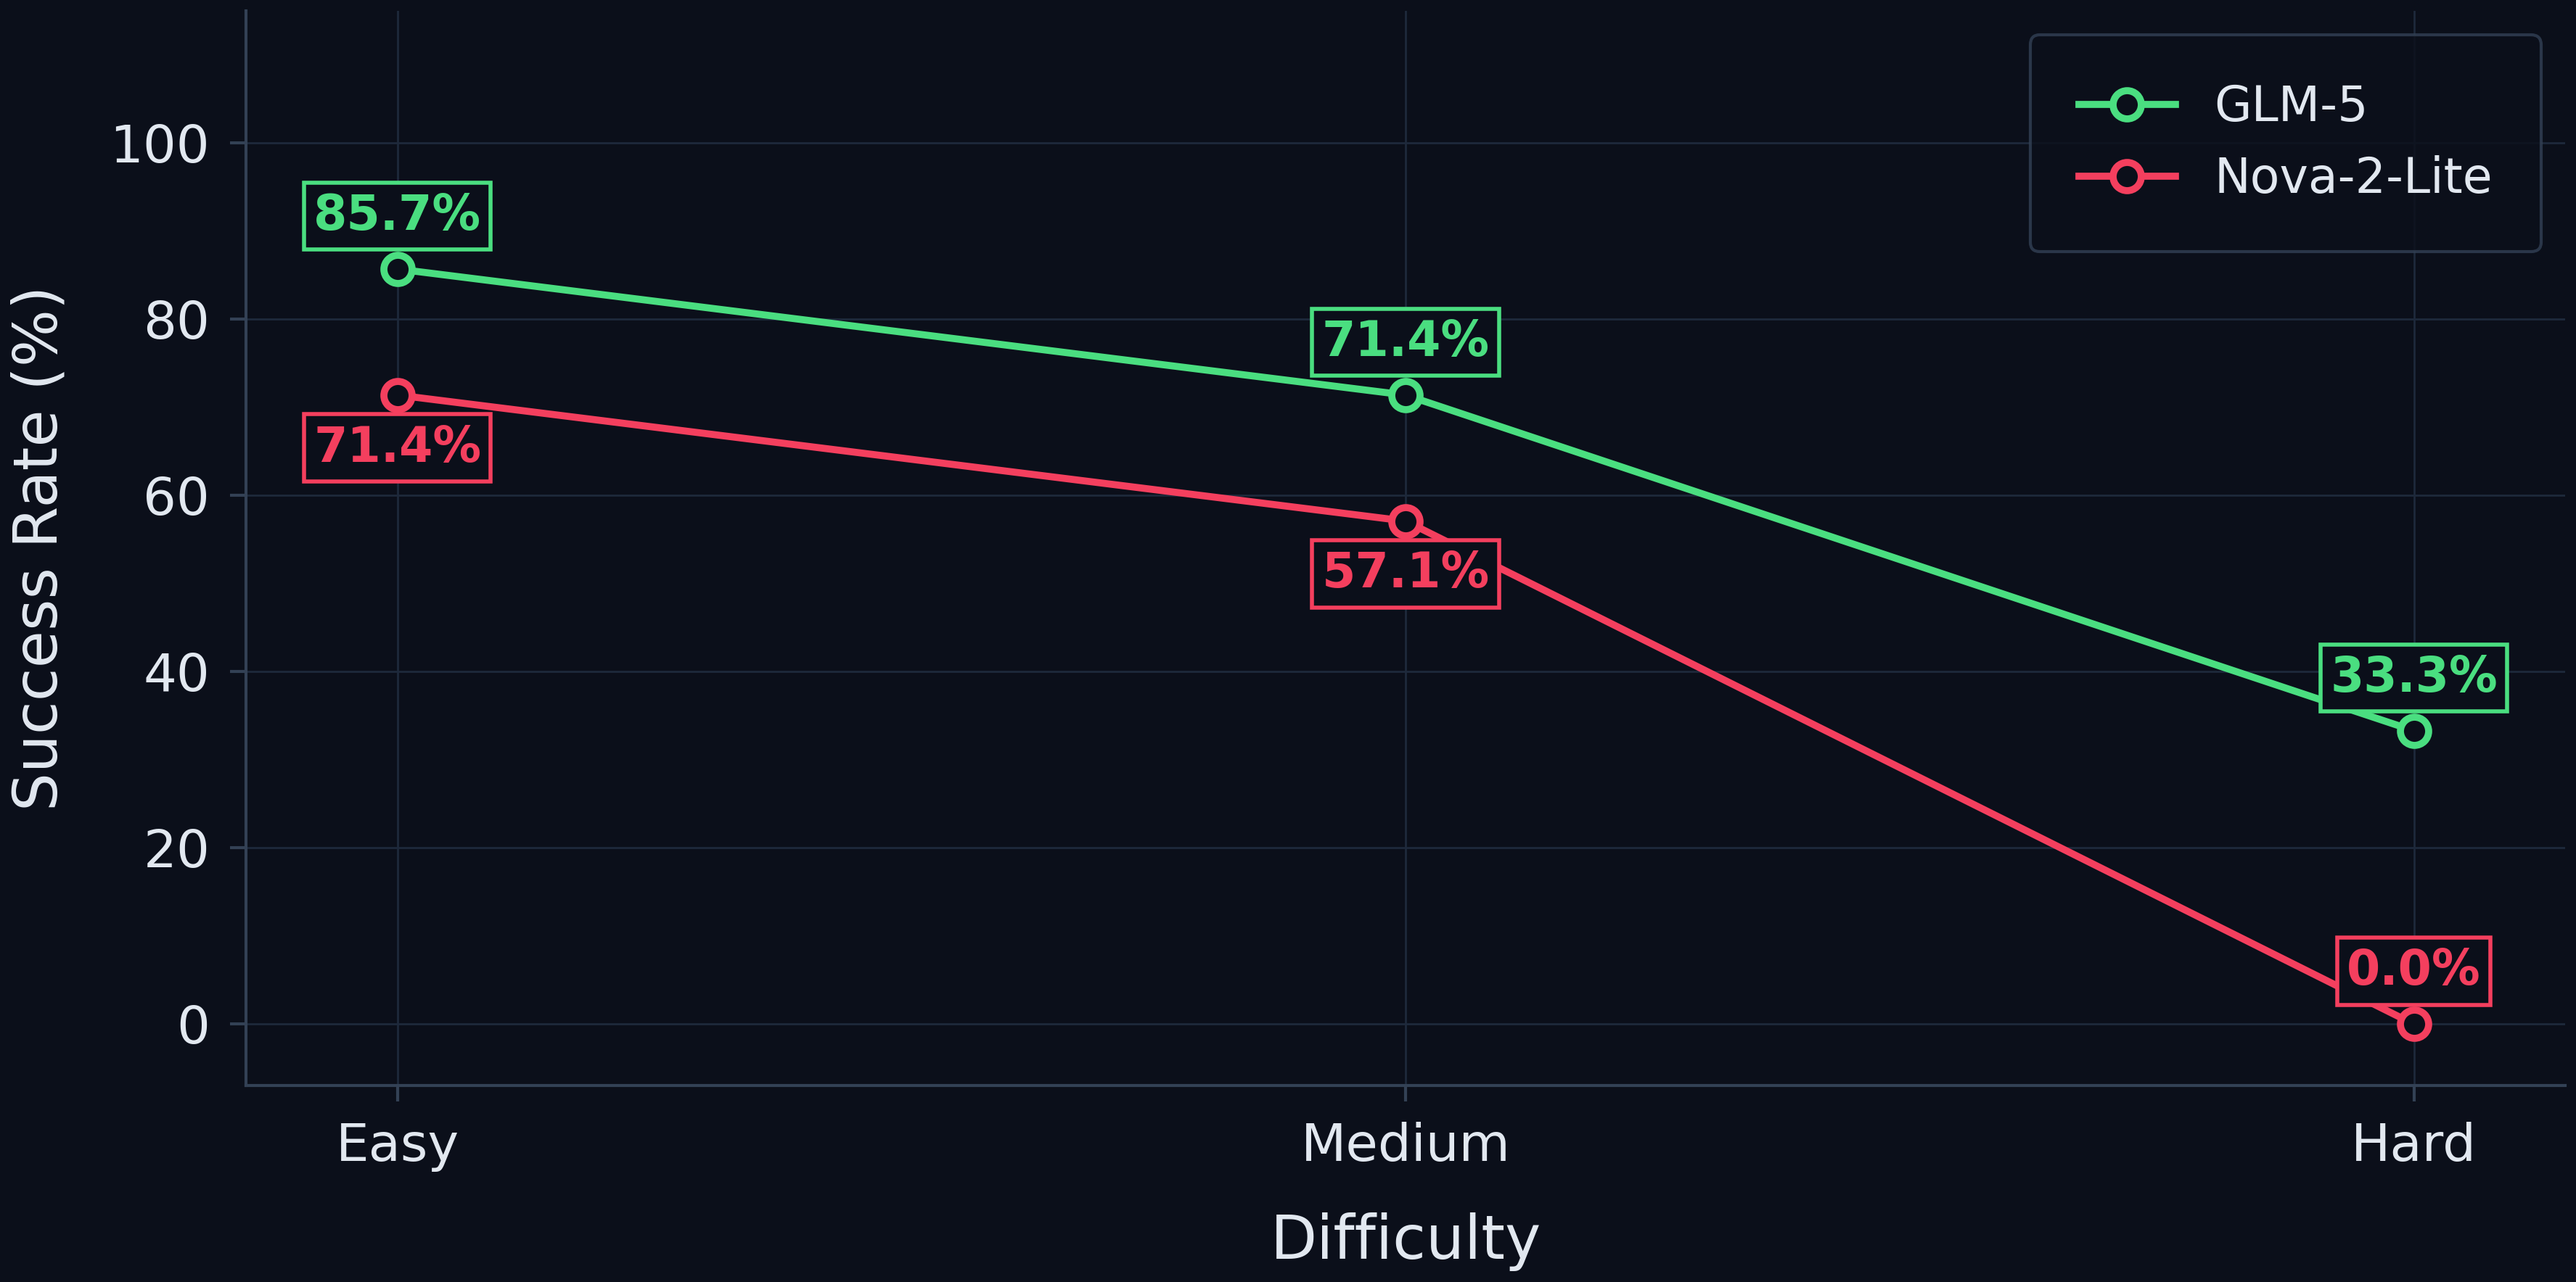
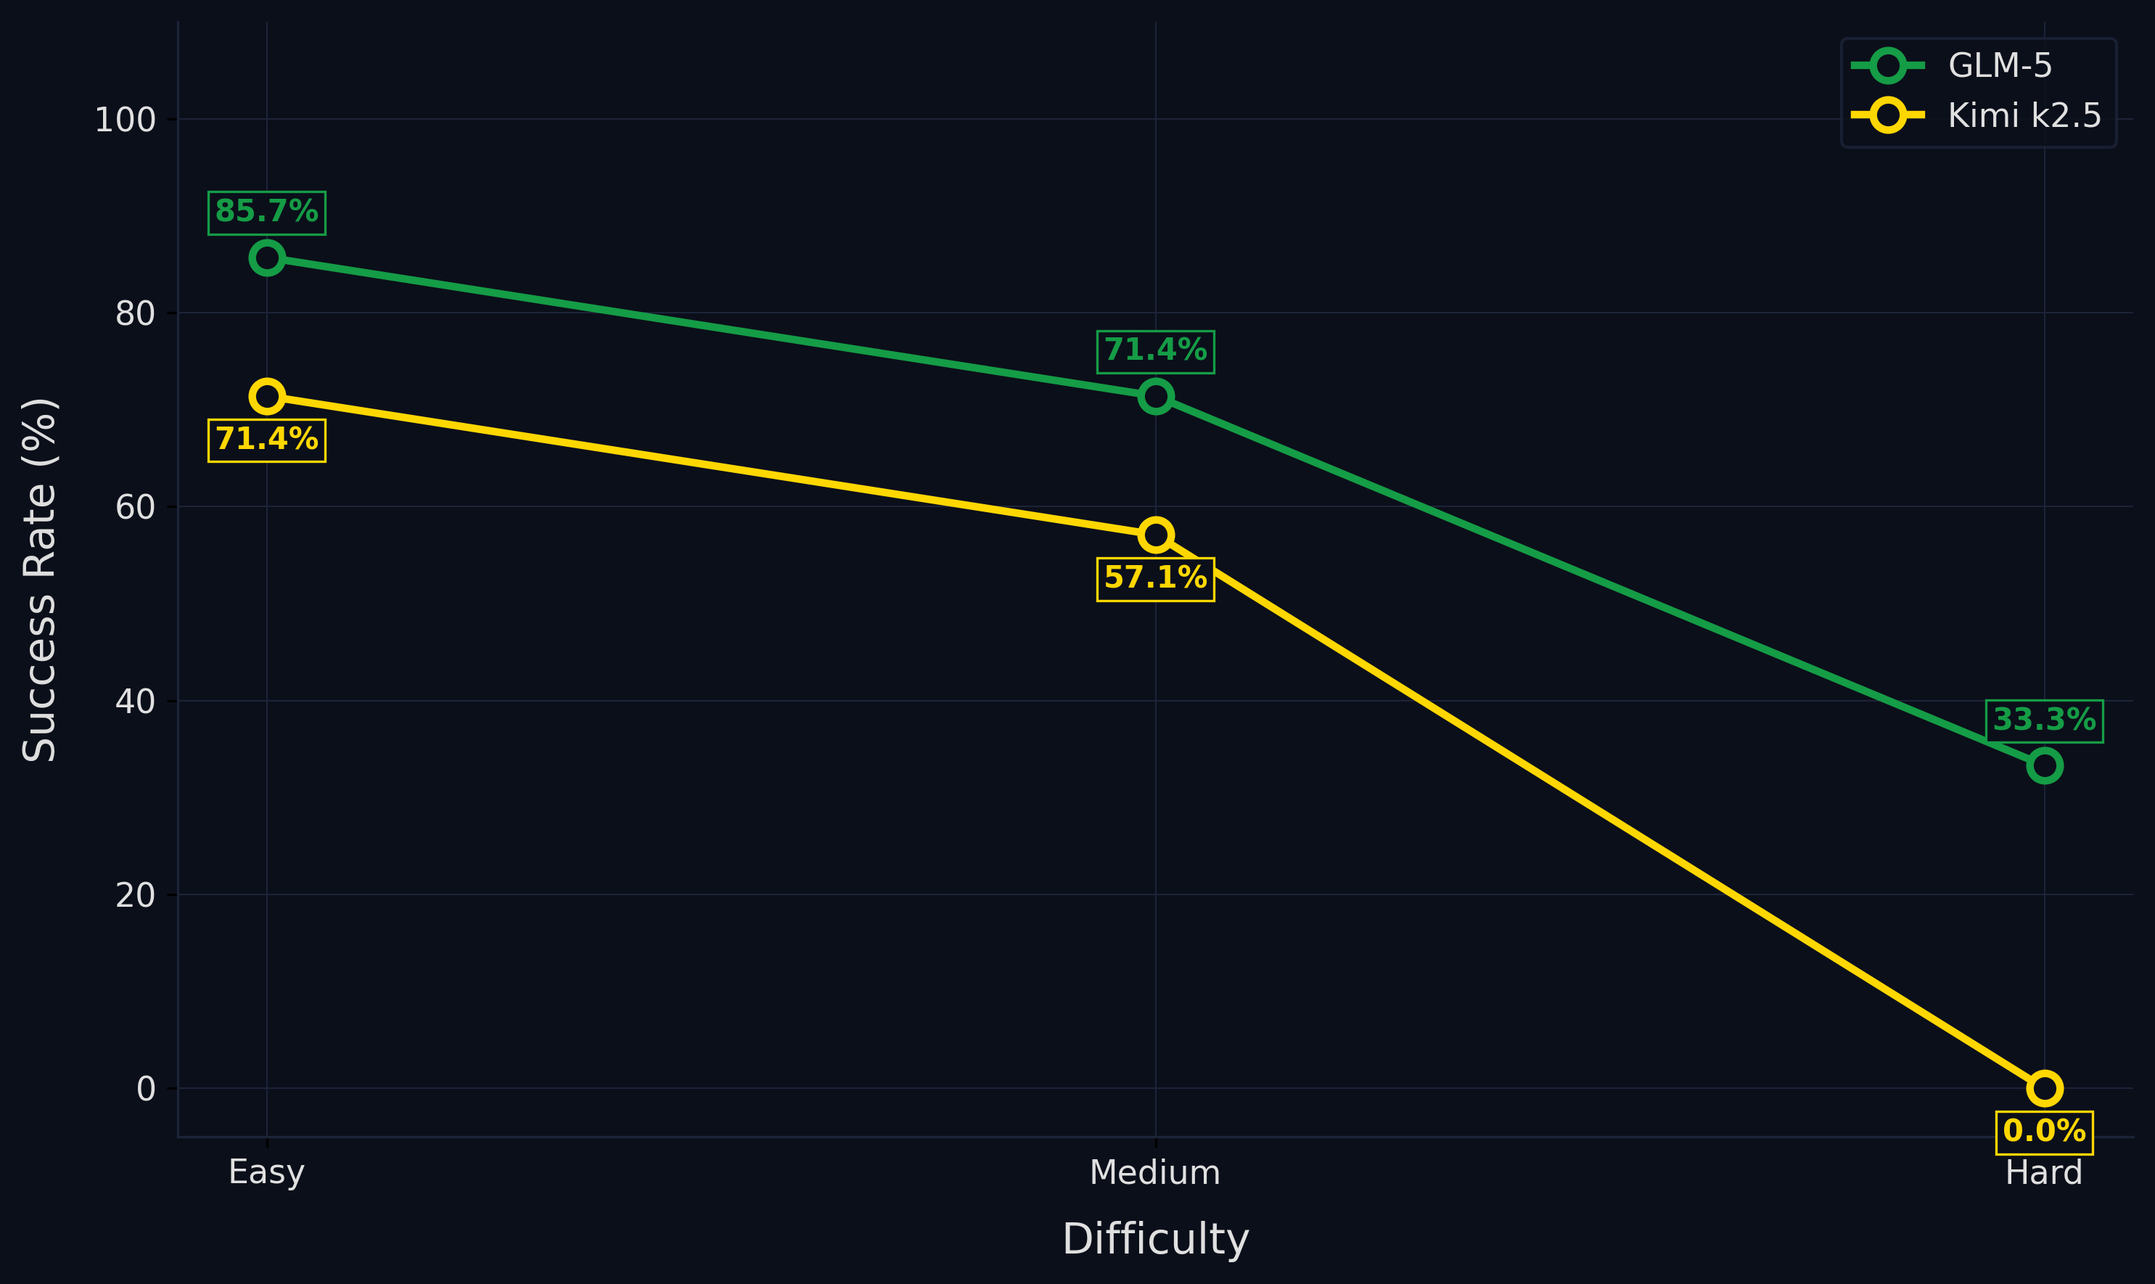
valkyrie, kaiju, mars daswhboard updated code.

diff --git a/custom_addons/huskarl_dashboard/static/src/portal/js/huskarl_portal.js b/custom_addons/huskarl_dashboard/static/src/portal/js/huskarl_portal.js
@@ -195,12 +195,12 @@
         case 'glm5_time':
           va = a.models['GLM-5']?.time_seconds || 0;
           vb = b.models['GLM-5']?.time_seconds || 0; break;
-        case 'nova_result':
-          va = a.models['Nova 2 Lite']?.passed ? 1 : 0;
-          vb = b.models['Nova 2 Lite']?.passed ? 1 : 0; break;
-        case 'nova_time':
-          va = a.models['Nova 2 Lite']?.time_seconds || 0;
-          vb = b.models['Nova 2 Lite']?.time_seconds || 0; break;
+        case 'kimi_result':
+          va = a.models['Kimi K2.5']?.passed ? 1 : 0;
+          vb = b.models['Kimi K2.5']?.passed ? 1 : 0; break;
+        case 'kimi_time':
+          va = a.models['Kimi K2.5']?.time_seconds || 0;
+          vb = b.models['Kimi K2.5']?.time_seconds || 0; break;
         default: va = a.serial; vb = b.serial;
       }
       if (va < vb) return sortDir === 'asc' ? -1 : 1;
@@ -215,7 +215,7 @@
   function renderDetailRow(inst) {
     const item = (k, v) => `<div class="detail-row-item"><span class="detail-key">${esc(k)}</span><span class="detail-val">${v}</span></div>`;
     const glm = inst.models['GLM-5'] || {};
-    const nova = inst.models['Nova 2 Lite'] || {};
+    const kimi = inst.models['Kimi K2.5'] || {};
 
     return `<tr class="detail-row" data-detail-for="${esc(inst.instance_id)}"><td colspan="9"><div class="detail-content"><div class="detail-grid">`
       + `<div class="detail-block"><div class="detail-block-title">Instance</div>`
@@ -230,9 +230,9 @@
         + item('Result', `<b style="color:${glm.passed ? 'var(--pass)' : 'var(--fail)'}">${glm.passed ? 'PASS' : 'FAIL'}</b>`)
         + item('Time', fmtTime(glm.time_seconds))
       + `</div>`
-      + `<div class="detail-block"><div class="detail-block-title">Nova-2-Lite</div>`
-        + item('Result', `<b style="color:${nova.passed ? 'var(--pass)' : 'var(--fail)'}">${nova.passed ? 'PASS' : 'FAIL'}</b>`)
-        + item('Time', fmtTime(nova.time_seconds))
+      + `<div class="detail-block"><div class="detail-block-title">Kimi K2.5</div>`
+        + item('Result', `<b style="color:${kimi.passed ? 'var(--pass)' : 'var(--fail)'}">${kimi.passed ? 'PASS' : 'FAIL'}</b>`)
+        + item('Time', fmtTime(kimi.time_seconds))
       + `</div>`
       + `</div></div></td></tr>`;
   }
@@ -253,7 +253,7 @@
       const diffColors = { easy:'color:var(--pass);', medium:'color:#D4A017;', hard:'color:var(--fail);' };
       const diffStyle = diffColors[(inst.difficulty || '').toLowerCase()] || 'color:var(--ink-3);';
       const glm = inst.models['GLM-5'] || {};
-      const nova = inst.models['Nova 2 Lite'] || {};
+      const kimi = inst.models['Kimi K2.5'] || {};
       const isExpanded = inst.instance_id === expandedId;
       html += `
         <tr class="matrix-row${isExpanded ? ' row-expanded' : ''}" data-id="${esc(inst.instance_id)}">
@@ -263,8 +263,8 @@
           <td class="matrix-meta"><span style="${tagStyle}${diffStyle}">${esc(inst.difficulty)}</span></td>
           <td class="matrix-cell"><span class="tile-btn ${outcomeClass(glm.passed)}" style="${tagStyle}">${outcomeLabel(glm.passed)}</span></td>
           <td class="matrix-cell mono" style="font-size:11px;">${fmtTime(glm.time_seconds)}</td>
-          <td class="matrix-cell"><span class="tile-btn ${outcomeClass(nova.passed)}" style="${tagStyle}">${outcomeLabel(nova.passed)}</span></td>
-          <td class="matrix-cell mono" style="font-size:11px;">${fmtTime(nova.time_seconds)}</td>
+          <td class="matrix-cell"><span class="tile-btn ${outcomeClass(kimi.passed)}" style="${tagStyle}">${outcomeLabel(kimi.passed)}</span></td>
+          <td class="matrix-cell mono" style="font-size:11px;">${fmtTime(kimi.time_seconds)}</td>
           <td class="matrix-meta" style="font-size:11px;">${esc(inst.language)}</td>
         </tr>
       `;

diff --git a/custom_addons/kaiju_dashboard/static/src/portal/js/kaiju_portal.js b/custom_addons/kaiju_dashboard/static/src/portal/js/kaiju_portal.js
@@ -307,7 +307,7 @@
         '<td class="kj-td-tests">' + d.test_count + '</td>' +
         '<td class="kj-td-python">' + esc(d.setup_python) + '</td>' +
         '<td class="kj-td-glm">' + passRateCell(d.glm5_stage3) + '</td>' +
-        '<td class="kj-td-nova">' + passRateCell(d.nova_stage3) + '</td>' +
+        '<td class="kj-td-kimi">' + passRateCell(d.kimi_stage3) + '</td>' +
         '<td class="kj-td-expand"><span class="kj-expand-icon"><svg viewBox="0 0 24 24" fill="none" stroke="currentColor" stroke-width="2"><path d="M9 5l7 7-7 7"/></svg></span></td>' +
       '</tr>'
     );
@@ -337,12 +337,12 @@
                 '<div class="kj-detail-row-item"><span class="kj-detail-key">Time (s)</span><span class="kj-detail-val">' + esc(d.glm5_time) + '</span></div>' +
               '</div>' +
               '<div class="kj-detail-block">' +
-                '<div class="kj-detail-block-title">Nova-2-Lite</div>' +
-                '<div class="kj-detail-row-item"><span class="kj-detail-key">Stage 1</span><span class="kj-detail-val">' + passFloat(d.nova_stage1).toFixed(1) + '%</span></div>' +
-                '<div class="kj-detail-row-item"><span class="kj-detail-key">Stage 2</span><span class="kj-detail-val">' + passFloat(d.nova_stage2).toFixed(1) + '%</span></div>' +
-                '<div class="kj-detail-row-item"><span class="kj-detail-key">Stage 3</span><span class="kj-detail-val">' + passFloat(d.nova_stage3).toFixed(1) + '%</span></div>' +
-                '<div class="kj-detail-row-item"><span class="kj-detail-key">Files Changed</span><span class="kj-detail-val">' + esc(d.nova_files) + '</span></div>' +
-                '<div class="kj-detail-row-item"><span class="kj-detail-key">Time (s)</span><span class="kj-detail-val">' + esc(d.nova_time) + '</span></div>' +
+                '<div class="kj-detail-block-title">Kimi K2.5</div>' +
+                '<div class="kj-detail-row-item"><span class="kj-detail-key">Stage 1</span><span class="kj-detail-val">' + passFloat(d.kimi_stage1).toFixed(1) + '%</span></div>' +
+                '<div class="kj-detail-row-item"><span class="kj-detail-key">Stage 2</span><span class="kj-detail-val">' + passFloat(d.kimi_stage2).toFixed(1) + '%</span></div>' +
+                '<div class="kj-detail-row-item"><span class="kj-detail-key">Stage 3</span><span class="kj-detail-val">' + passFloat(d.kimi_stage3).toFixed(1) + '%</span></div>' +
+                '<div class="kj-detail-row-item"><span class="kj-detail-key">Files Changed</span><span class="kj-detail-val">' + esc(d.kimi_files) + '</span></div>' +
+                '<div class="kj-detail-row-item"><span class="kj-detail-key">Time (s)</span><span class="kj-detail-val">' + esc(d.kimi_time) + '</span></div>' +
               '</div>' +
             '</div>' +
             (d.repo_path ? '<div class="kj-detail-links" style="margin-top:16px"><a class="kj-detail-link" href="' + esc(d.repo_path) + '" target="_blank" rel="noopener">Fork Repository</a>' + (d.original_repo ? '<a class="kj-detail-link" href="' + esc(d.original_repo) + '" target="_blank" rel="noopener">Original Repository</a>' : '') + '</div>' : '') +
@@ -451,7 +451,7 @@
     var numericKeys = {
       test_count: true,
       glm5_stage3: true,
-      nova_stage3: true,
+      kimi_stage3: true,
     };
 
     filteredData.sort(function (a, b) {

diff --git a/custom_addons/valkyrie_dashboard/static/src/portal/js/valkyrie_portal.js b/custom_addons/valkyrie_dashboard/static/src/portal/js/valkyrie_portal.js
@@ -258,7 +258,7 @@
                 '<td class="vk-td-cwe">' + esc(cweDisplay(d.vulnerability_type)) + '</td>' +
                 '<td class="vk-td-tests">' + esc(d.fail_to_pass_count) + '</td>' +
                 '<td class="vk-td-kimi">' + passBadge(d.kimi_pass_at_1) + '</td>' +
-                '<td class="vk-td-nova">' + passBadge(d.nova_pass_at_1) + '</td>' +
+                '<td class="vk-td-glm5">' + passBadge(d.glm5_pass_at_1) + '</td>' +
                 '<td class="vk-td-expand"><span class="vk-expand-icon"><svg viewBox="0 0 24 24" fill="none" stroke="currentColor" stroke-width="2"><path d="M9 5l7 7-7 7"/></svg></span></td>' +
             '</tr>'
         );
@@ -287,13 +287,11 @@
                                 '<div class="vk-detail-block-title">Kimi K2.5</div>' +
                                 '<div class="vk-detail-row-item"><span class="vk-detail-key">Result</span><span class="vk-detail-val">' + passBadge(d.kimi_pass_at_1) + '</span></div>' +
                                 '<div class="vk-detail-row-item"><span class="vk-detail-key">Time (s)</span><span class="vk-detail-val">' + esc(parseFloat(d.kimi_time || 0).toFixed(1)) + '</span></div>' +
-                                '<div class="vk-detail-row-item"><span class="vk-detail-key">Cost ($)</span><span class="vk-detail-val">' + esc(d.kimi_cost || "0") + '</span></div>' +
                             '</div>' +
                             '<div class="vk-detail-block">' +
-                                '<div class="vk-detail-block-title">Nova 2 Lite</div>' +
-                                '<div class="vk-detail-row-item"><span class="vk-detail-key">Result</span><span class="vk-detail-val">' + passBadge(d.nova_pass_at_1) + '</span></div>' +
-                                '<div class="vk-detail-row-item"><span class="vk-detail-key">Time (s)</span><span class="vk-detail-val">' + esc(parseFloat(d.nova_time || 0).toFixed(1)) + '</span></div>' +
-                                '<div class="vk-detail-row-item"><span class="vk-detail-key">Cost ($)</span><span class="vk-detail-val">' + esc(d.nova_cost || "0") + '</span></div>' +
+                                '<div class="vk-detail-block-title">GLM 5</div>' +
+                                '<div class="vk-detail-row-item"><span class="vk-detail-key">Result</span><span class="vk-detail-val">' + passBadge(d.glm5_pass_at_1) + '</span></div>' +
+                                '<div class="vk-detail-row-item"><span class="vk-detail-key">Time (s)</span><span class="vk-detail-val">' + esc(parseFloat(d.glm5_time || 0).toFixed(1)) + '</span></div>' +
                             '</div>' +
                         '</div>' +
                         (repoUrl ? '<div class="vk-detail-links"><a class="vk-detail-link" href="' + esc(repoUrl) + '" target="_blank" rel="noopener">Repository</a></div>' : '') +
@@ -417,7 +415,7 @@
                 return (av - bv) * dir;
             }
 
-            if (key === "kimi_pass_at_1" || key === "nova_pass_at_1") {
+            if (key === "kimi_pass_at_1" || key === "glm5_pass_at_1") {
                 av = av === "Pass" ? 1 : 0;
                 bv = bv === "Pass" ? 1 : 0;
                 return (bv - av) * dir;  // passes first

diff --git a/custom_addons/valkyrie_dashboard/static/src/portal/css/valkyrie_portal.css b/custom_addons/valkyrie_dashboard/static/src/portal/css/valkyrie_portal.css
@@ -43,8 +43,8 @@
   /* model semantic colors */
   --vk-kimi:          #2A5CB8;
   --vk-kimi-surface:  #E5EDFB;
-  --vk-nova:          #5C3FB3;
-  --vk-nova-surface:  #EEE4FB;
+  --vk-glm5:          #5C3FB3;
+  --vk-glm5-surface:  #EEE4FB;
 
   /* pass / fail */
   --vk-pass:          #0E8F4B;
@@ -594,13 +594,6 @@ body:has(.vk-portal) .o_footer_copyright {
 }
 .vk-reveal-kicker { color: var(--vk-ink-2); }
 .vk-reveal-kicker b { color: var(--vk-ink); }
-.vk-reveal-cost {
-  margin-top: 22px !important;
-  font-size: var(--vk-s-small);
-  color: var(--vk-ink-3);
-  letter-spacing: 0.02em;
-}
-.vk-reveal-cost b { color: var(--vk-ink); font-weight: 500; }
 
 /* charts */
 .vk-charts {
@@ -661,7 +654,7 @@ body:has(.vk-portal) .o_footer_copyright {
 .vk-caption a { color: var(--vk-accent); border-bottom: 1px solid var(--vk-border-2); }
 .vk-caption a:hover { border-color: var(--vk-accent); }
 .vk-tok-kimi { color: var(--vk-kimi); font-weight: 500; }
-.vk-tok-nova { color: var(--vk-nova); font-weight: 500; }
+.vk-tok-glm5 { color: var(--vk-glm5); font-weight: 500; }
 
 /* chart trigger + zoom hint */
 .vk-chart-trigger {
@@ -889,14 +882,14 @@ body:has(.vk-portal) .o_footer_copyright {
 .vk-matrix .vk-th-cwe      { width: 120px; }
 .vk-matrix .vk-th-tests    { width: 72px;  text-align: center; }
 .vk-matrix .vk-th-kimi,
-.vk-matrix .vk-th-nova     { width: 112px; text-align: center; }
+.vk-matrix .vk-th-glm5     { width: 112px; text-align: center; }
 .vk-matrix .vk-th-expand   { width: 44px;  text-align: center; }
 
 /* Numeric + badge columns center-align their td values */
 .vk-matrix tbody td.vk-td-diff,
 .vk-matrix tbody td.vk-td-tests,
 .vk-matrix tbody td.vk-td-kimi,
-.vk-matrix tbody td.vk-td-nova,
+.vk-matrix tbody td.vk-td-glm5,
 .vk-matrix tbody td.vk-td-expand { text-align: center; }
 
 .vk-matrix tbody tr {
@@ -1343,8 +1336,8 @@ body:has(.vk-portal) .o_footer_copyright {
 
   --vk-kimi:            #89B5FF;
   --vk-kimi-surface:    rgba(137,181,255,0.14);
-  --vk-nova:            #CDB0FF;
-  --vk-nova-surface:    rgba(205,176,255,0.14);
+  --vk-glm5:            #CDB0FF;
+  --vk-glm5-surface:    rgba(205,176,255,0.14);
 
   --vk-pass:            #5EE695;
   --vk-pass-surface:    rgba(94,230,149,0.14);
@@ -1375,7 +1368,7 @@ body:has(.vk-portal) .o_footer_copyright {
     --vk-accent: #EE00EE;  --vk-accent-2: #FF44FF;  --vk-accent-bright: #EE00EE;
     --vk-accent-surface: rgba(238,0,238,0.12);  --vk-accent-on: #FFFFFF;
     --vk-kimi: #89B5FF;  --vk-kimi-surface: rgba(137,181,255,0.14);
-    --vk-nova: #CDB0FF;  --vk-nova-surface: rgba(205,176,255,0.14);
+    --vk-glm5: #CDB0FF;  --vk-glm5-surface: rgba(205,176,255,0.14);
     --vk-pass: #5EE695;  --vk-pass-surface: rgba(94,230,149,0.14);
     --vk-fail: #FF8F8F;  --vk-fail-surface: rgba(255,143,143,0.12);
     --vk-easy: #5EE695;  --vk-medium: #FFBE5C;  --vk-hard: #FF8F8F;

diff --git a/custom_addons/kaiju_dashboard/static/src/portal/css/kaiju_portal.css b/custom_addons/kaiju_dashboard/static/src/portal/css/kaiju_portal.css
@@ -43,8 +43,8 @@
   /* model semantic colors — split into ink + surface variants */
   --glm:           #2A5CB8;   /* blue ink · 5.9:1 */
   --glm-surface:   #E5EDFB;
-  --nova:          #5C3FB3;   /* purple ink · 7.2:1 */
-  --nova-surface:  #EEE4FB;
+  --kimi:          #5C3FB3;   /* purple ink · 7.2:1 */
+  --kimi-surface:  #EEE4FB;
 
   /* pass / fail */
   --pass:          #0E8F4B;   /* green ink · 4.6:1 on white */
@@ -752,7 +752,7 @@ hr.rule {
 .caption a { color: var(--accent); border-bottom: 1px solid var(--border-2); }
 .caption a:hover { border-color: var(--accent); }
 .tok-glm  { color: var(--glm); font-weight: 500; }
-.tok-nova { color: var(--nova); font-weight: 500; }
+.tok-kimi { color: var(--kimi); font-weight: 500; }
 
 /* ============================================================
    CHART TRIGGER + LIGHTBOX
@@ -1073,7 +1073,7 @@ hr.rule {
 .th-tests { width: 80px; text-align: center; white-space: nowrap; }
 .th-python { width: 100px; text-align: center; white-space: nowrap; }
 .th-glm,
-.th-nova { width: 22%; text-align: center; white-space: nowrap; }
+.th-kimi { width: 22%; text-align: center; white-space: nowrap; }
 .th-expand { width: 44px; text-align: center; cursor: default; }
 
 .viewer-table tbody tr {
@@ -1196,7 +1196,7 @@ hr.rule {
   color: var(--ink-3);
 }
 .kj-td-glm,
-.kj-td-nova { text-align: center; }
+.kj-td-kimi { text-align: center; }
 .kj-td-expand { text-align: center; }
 
 /* ── expand icon — both prefixed and unprefixed ── */
@@ -1601,8 +1601,8 @@ hr.rule {
   /* model semantic colors */
   --glm:             #89B5FF;
   --glm-surface:     rgba(137,181,255,0.14);
-  --nova:            #CDB0FF;
-  --nova-surface:    rgba(205,176,255,0.14);
+  --kimi:            #CDB0FF;
+  --kimi-surface:    rgba(205,176,255,0.14);
 
   /* pass / fail */
   --pass:            #5EE695;
@@ -1647,7 +1647,7 @@ hr.rule {
     --accent: #EE00EE;  --accent-2: #FF44FF;  --accent-bright: #EE00EE;
     --accent-surface: rgba(238,0,238,0.12);  --accent-on: #FFFFFF;
     --glm: #89B5FF;  --glm-surface: rgba(137,181,255,0.14);
-    --nova: #CDB0FF;  --nova-surface: rgba(205,176,255,0.14);
+    --kimi: #CDB0FF;  --kimi-surface: rgba(205,176,255,0.14);
     --pass: #5EE695;  --pass-surface: rgba(94,230,149,0.14);
     --fail: #FF8F8F;  --fail-surface: rgba(255,143,143,0.12);
     --warning: #FFD666;  --warning-surface: rgba(255,214,102,0.12);
